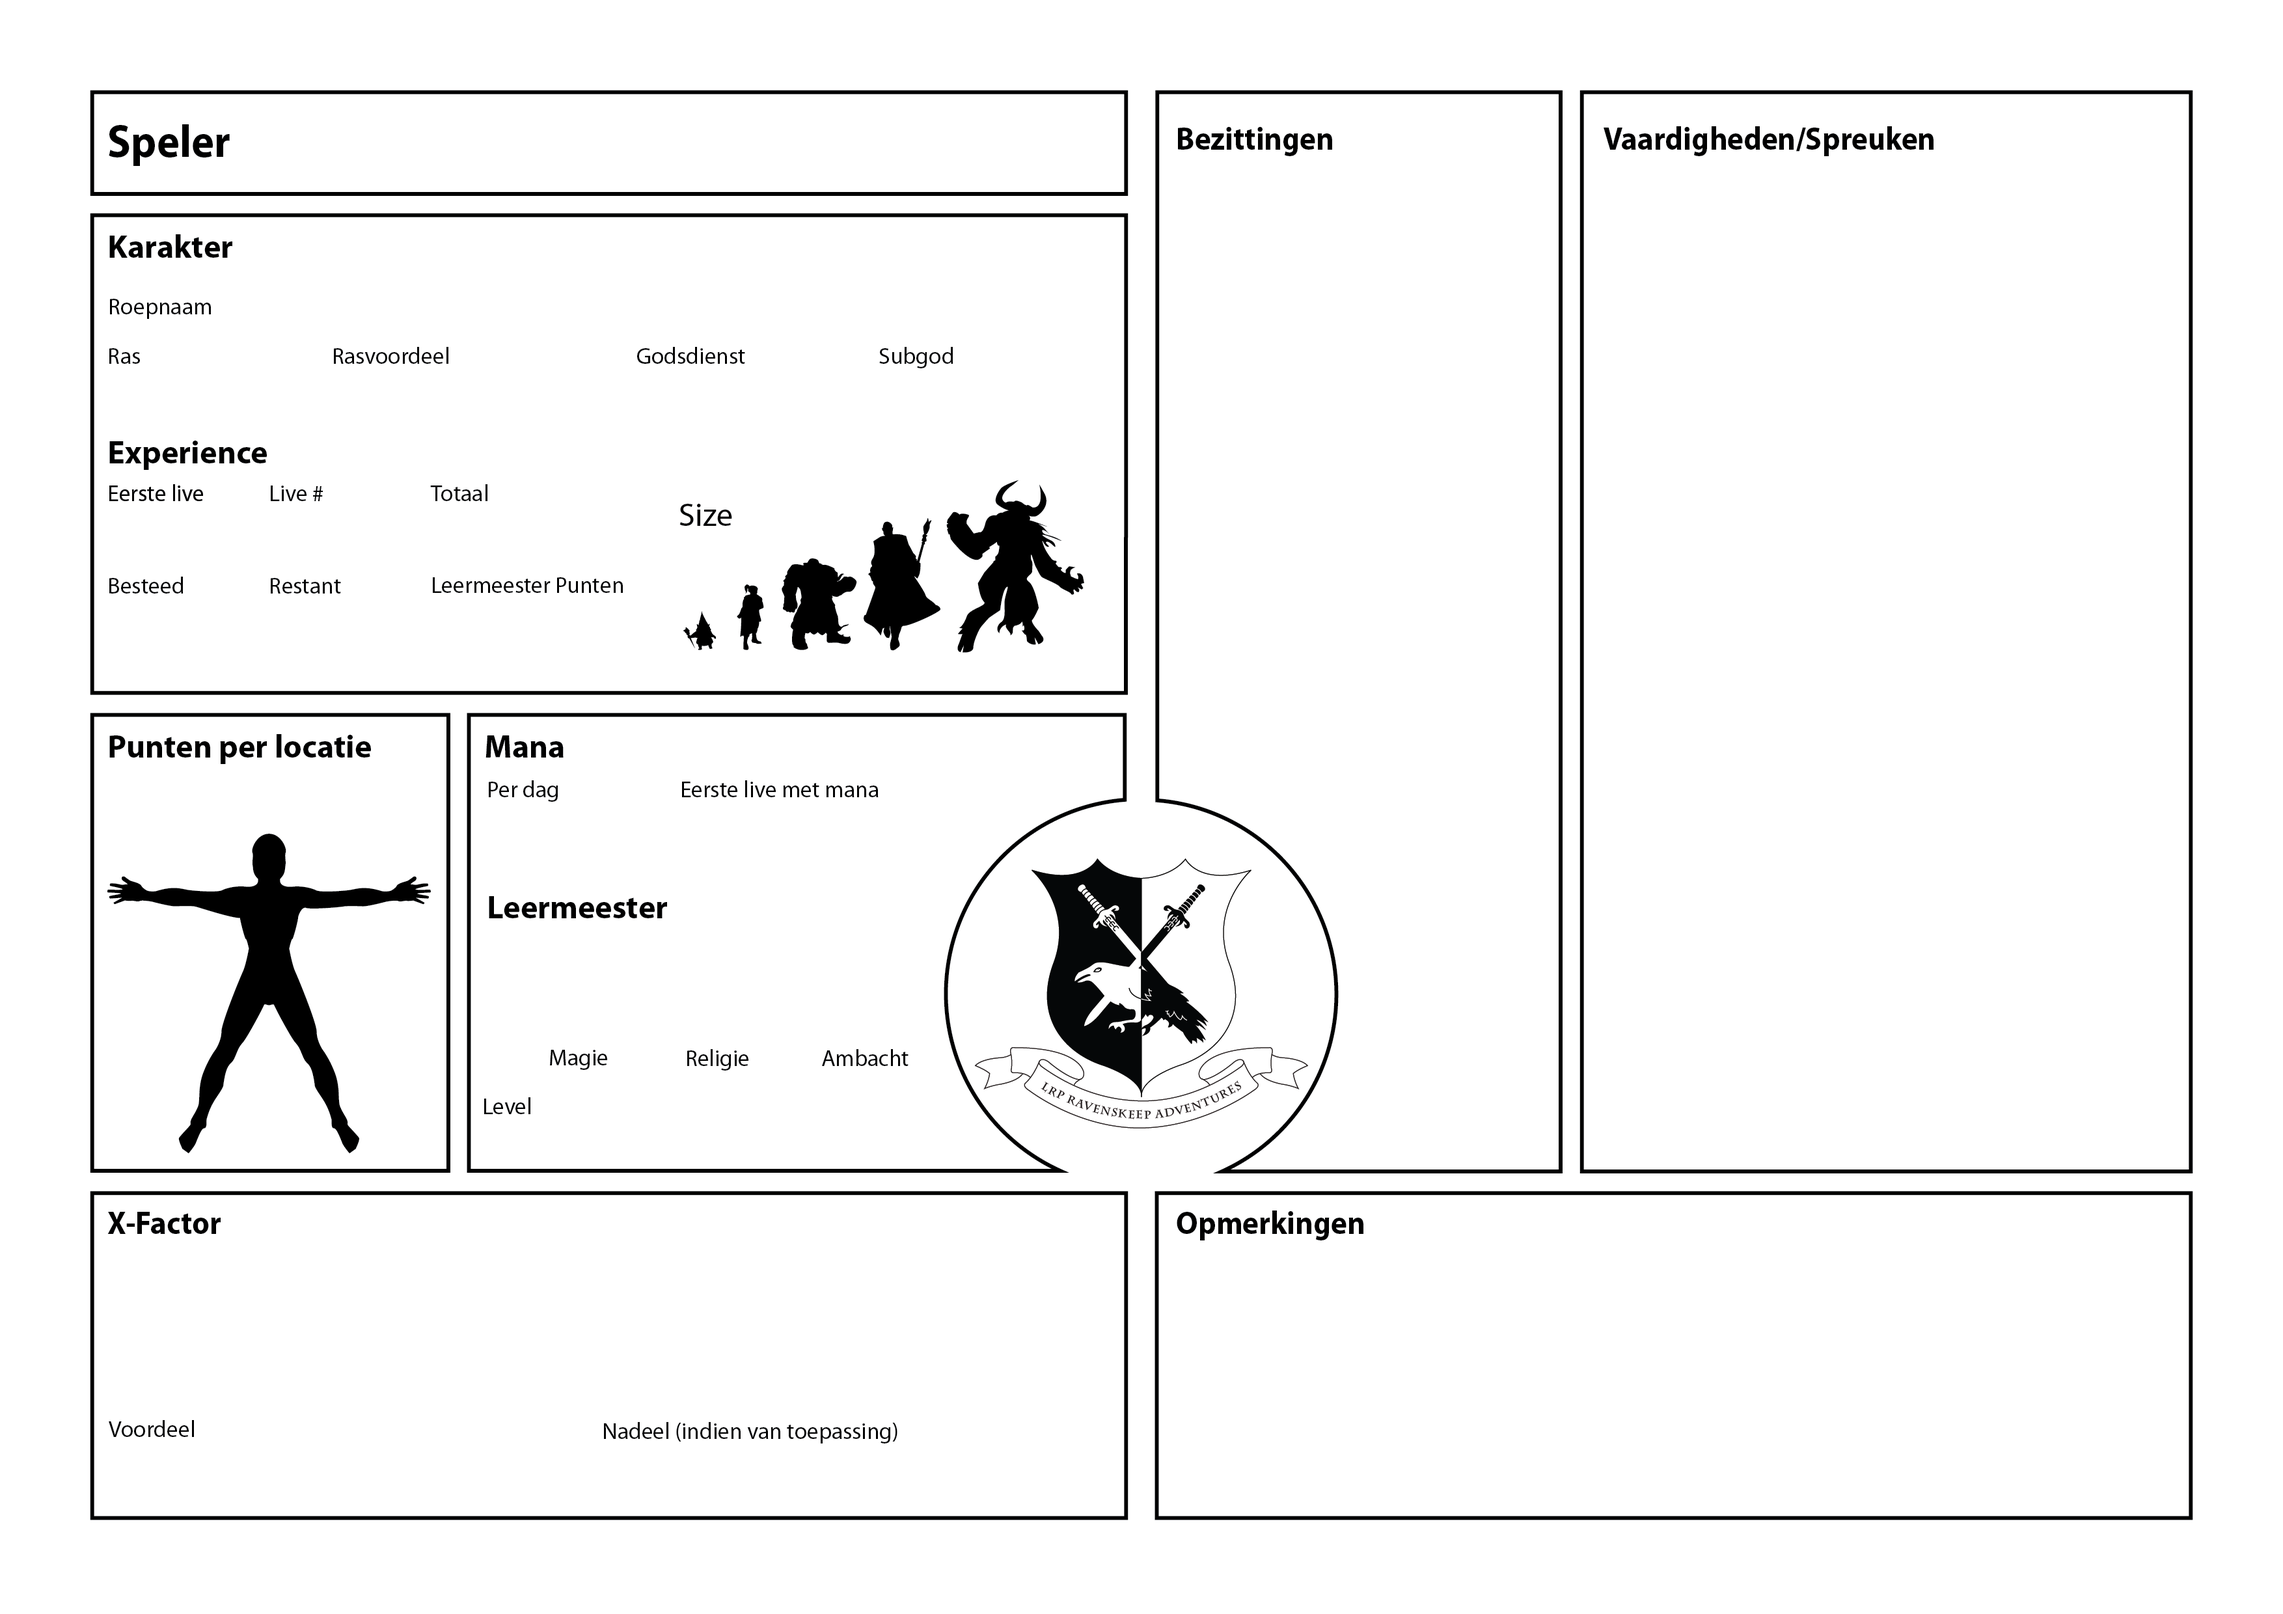
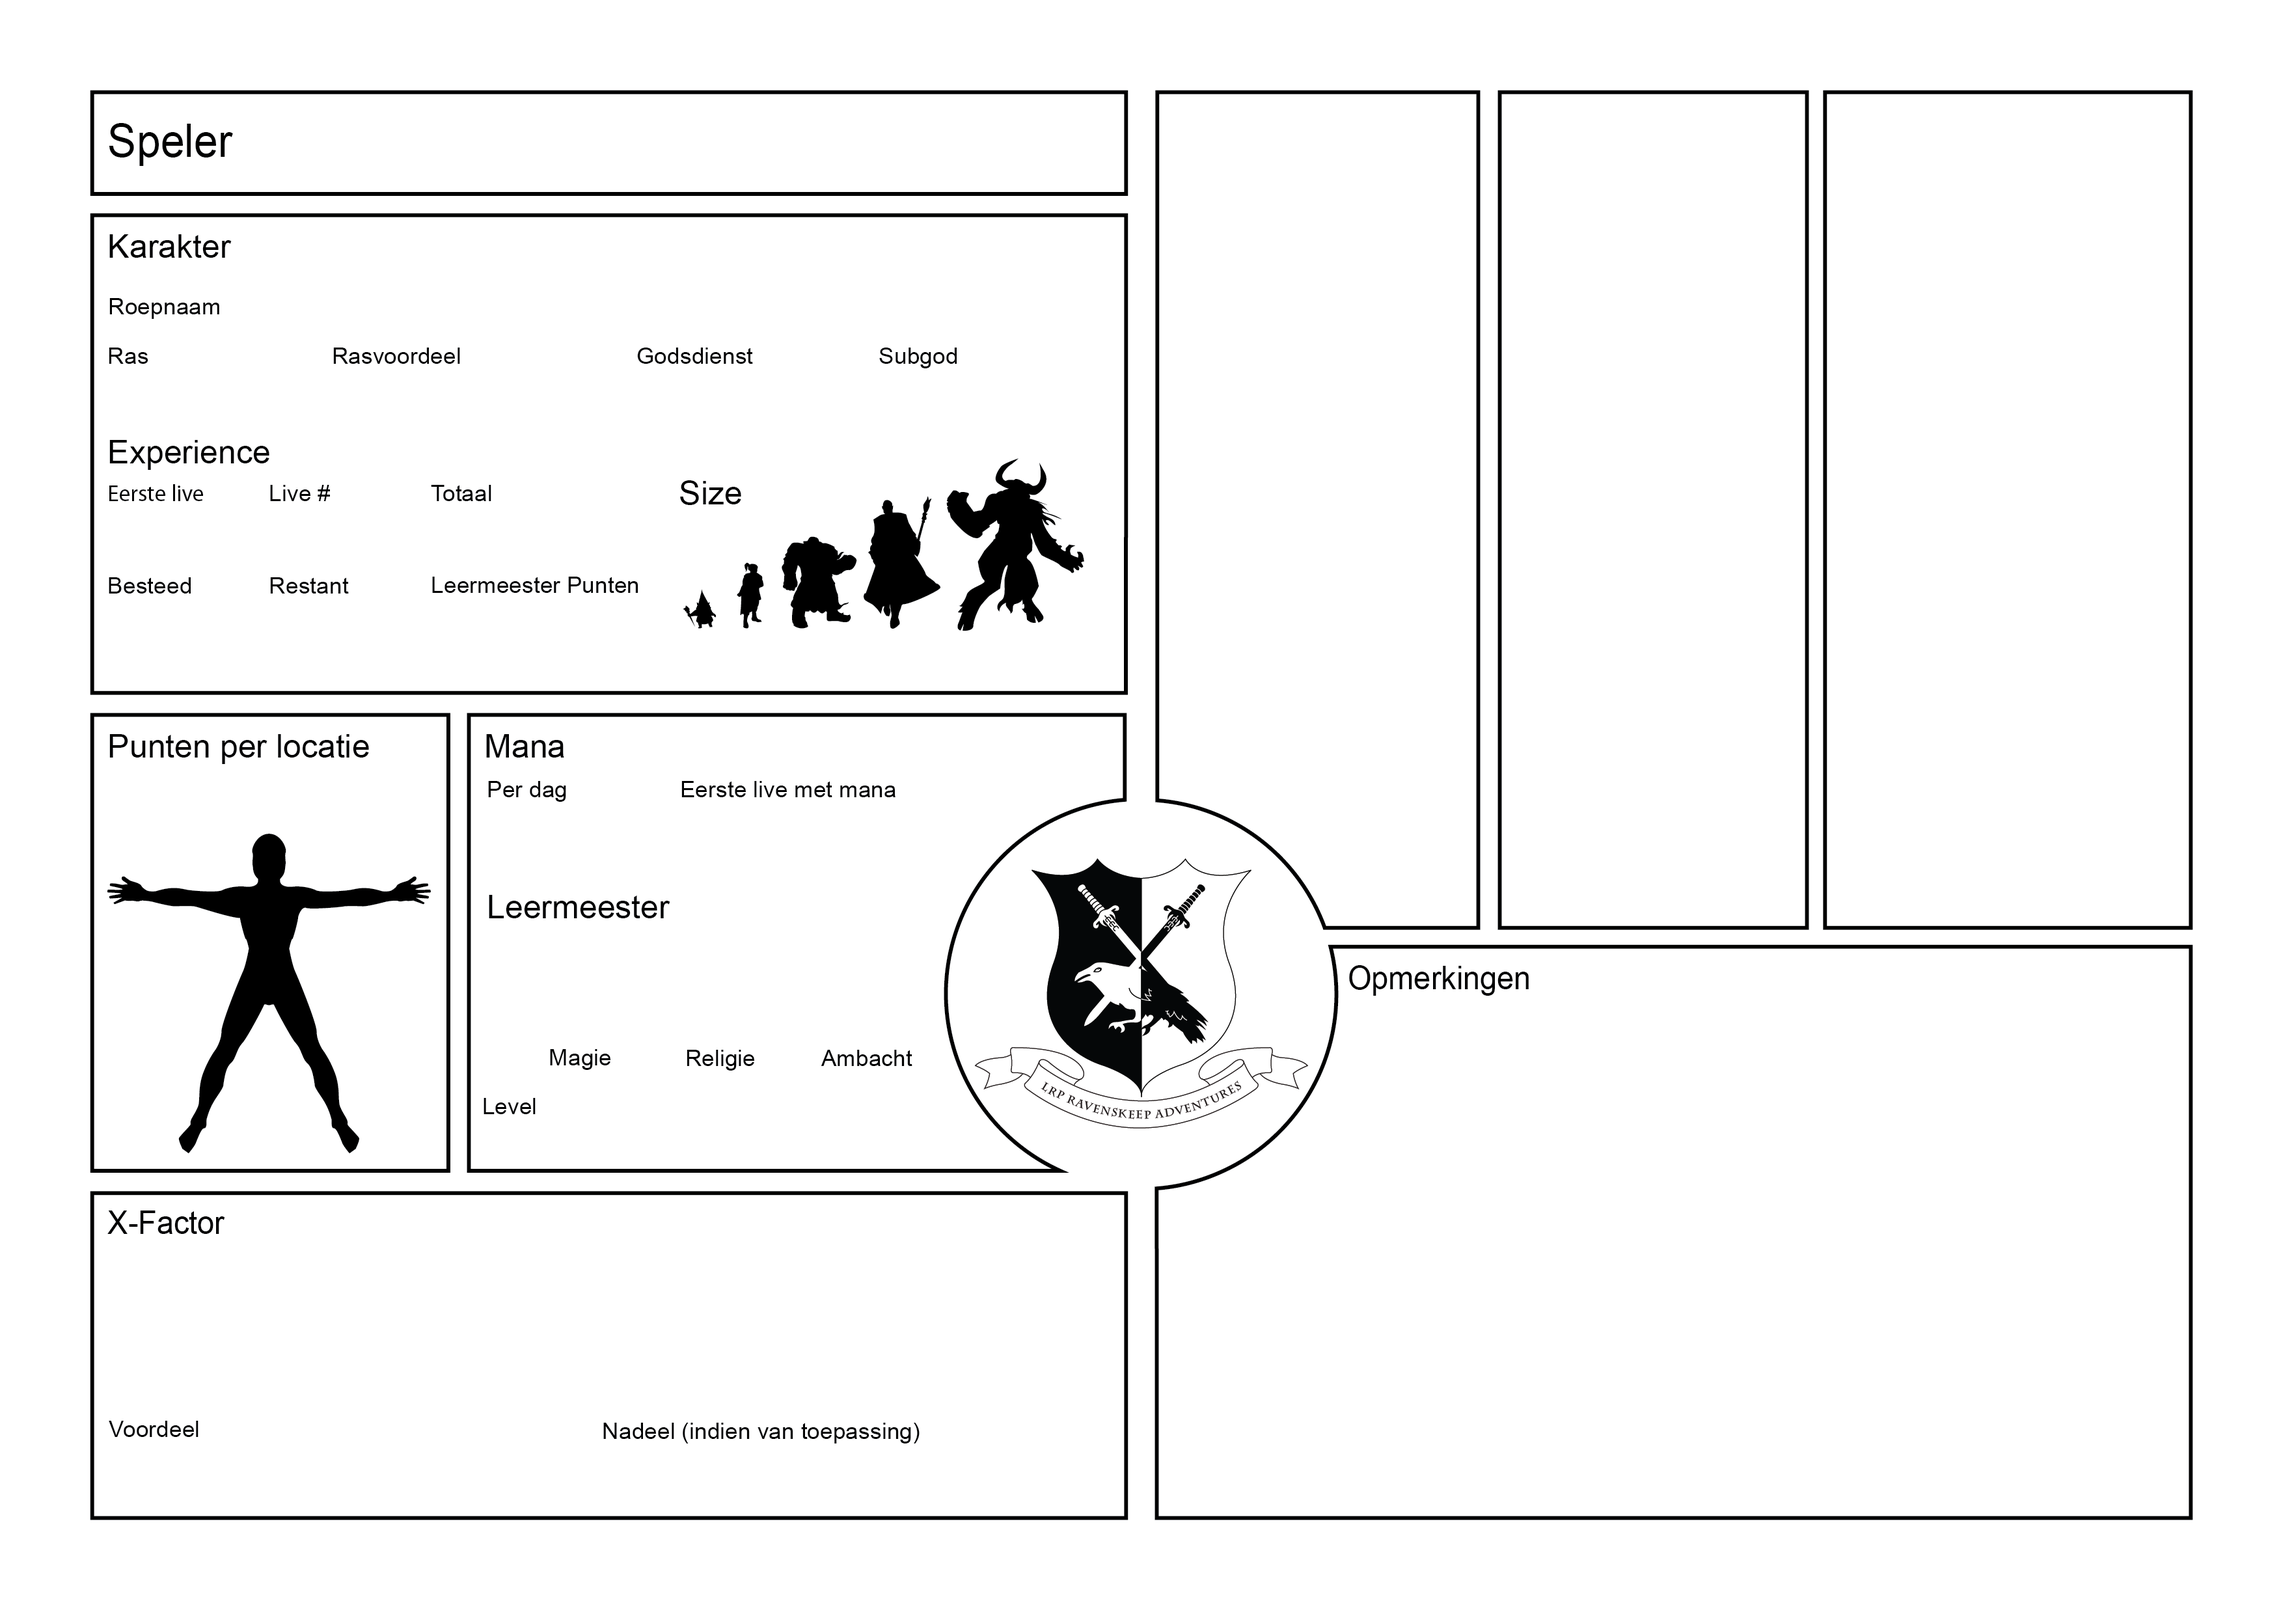
changed background and linebreaks@opmerkingen

diff --git a/templates/printindex.html b/templates/printindex.html
@@ -75,7 +75,7 @@
 					<div class="lW" style="width:0px;"></div>
 					<div class="lW" style="width:0px;"></div>
 					<div class="lW" style="width:0px;"></div>
-					<p>{{ char.opmerkingen }}</p>
+					<p>{{ char.opmerkingen|linebreaksbr }} }}</p>
 				</div>
 			<textarea class="absolute" id="xfactor" name="xfactor">{{ char.x_factor }}{% if char.x_factor_skill and char.x_factor %}&#10;&#10;{% endif %}{% if char.x_factor_skill %}X - Factor Skill: {{ char.x_factor_skill }}{% endif %}</textarea>
 			
